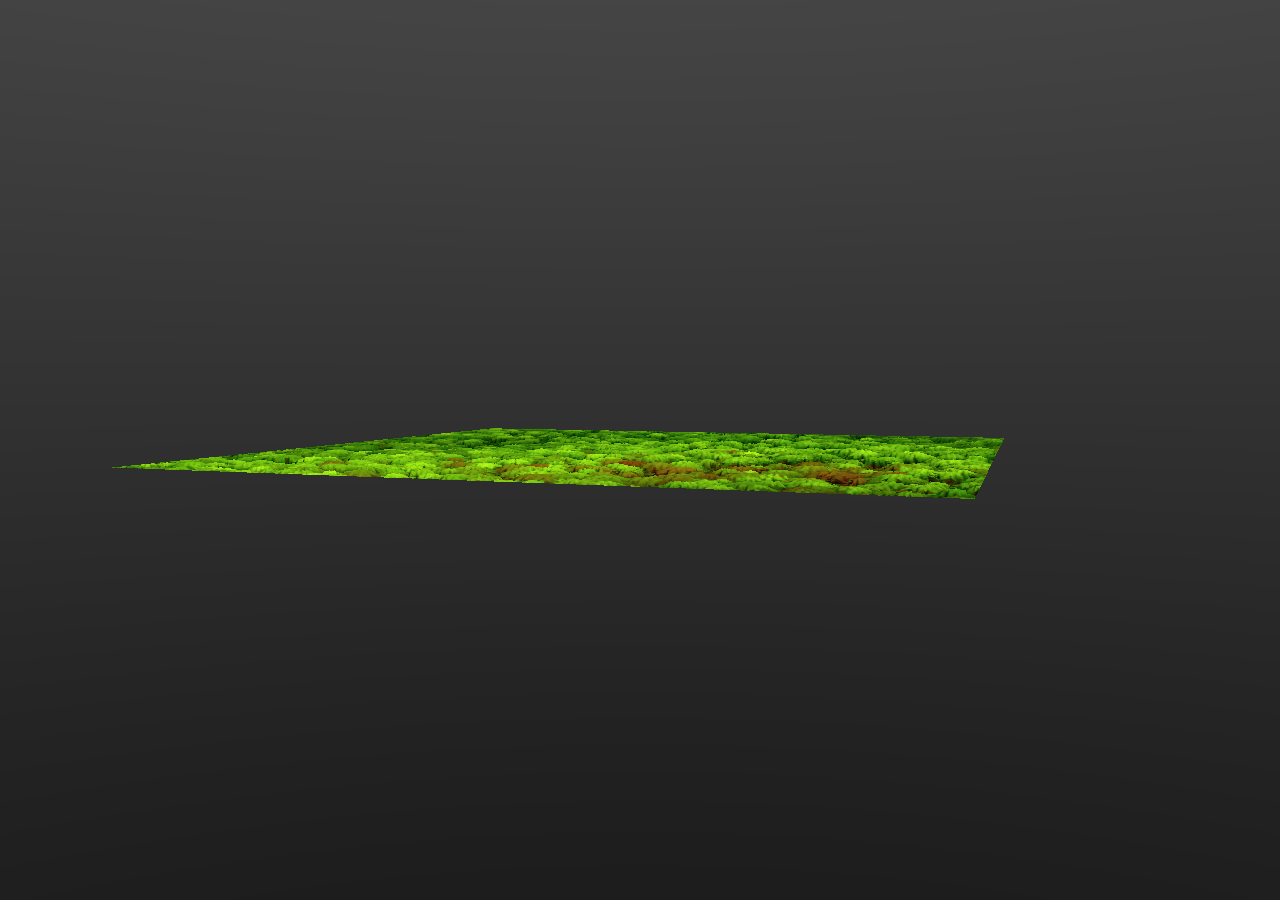
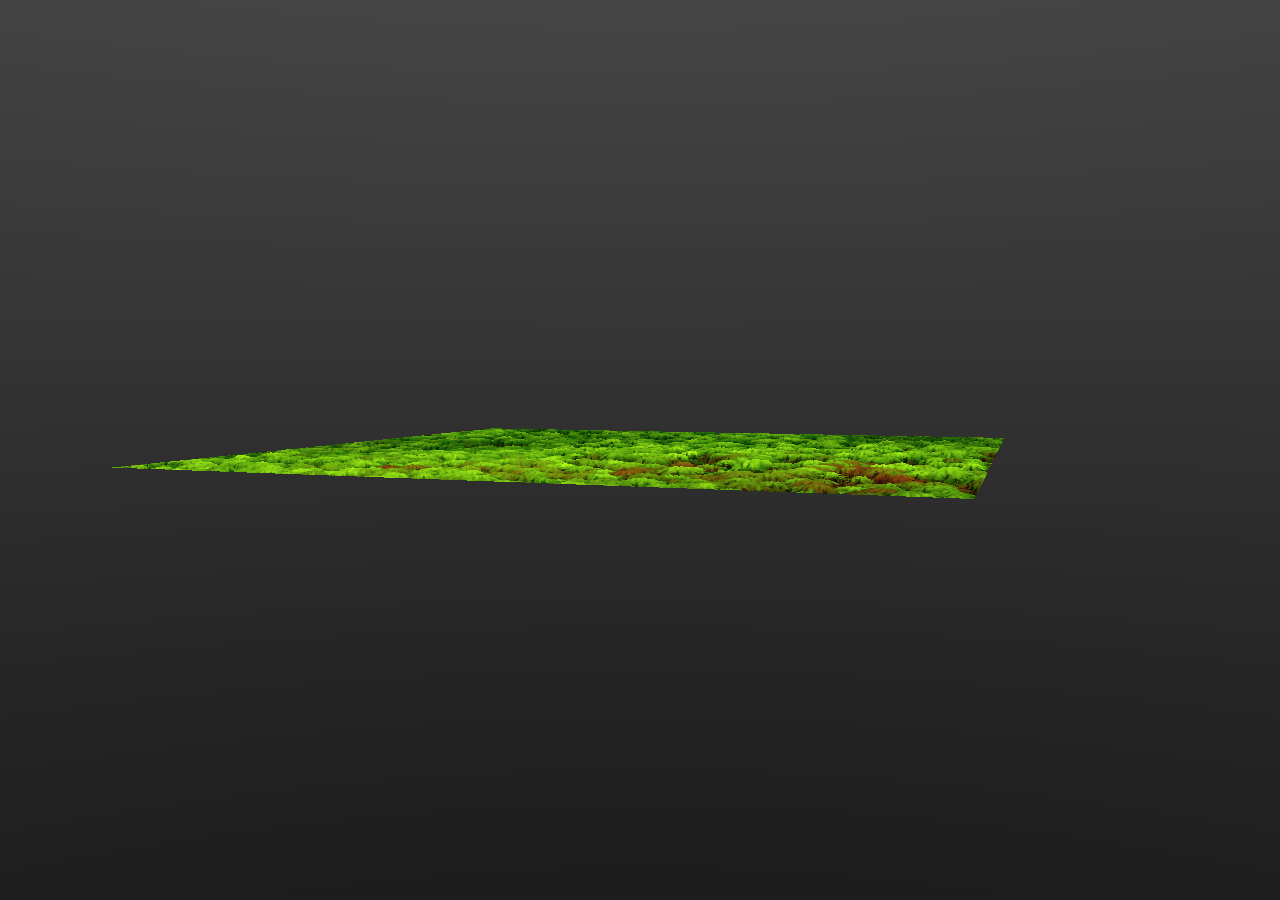
refine separated packed sphagnum cushions

Changed region(s): [[0.125, 0.4667, 0.7812, 0.56]]

diff --git a/experiments/materials/mosses/sphagnum/025-statistical-assemblage/generator.ts b/experiments/materials/mosses/sphagnum/025-statistical-assemblage/generator.ts
@@ -176,7 +176,8 @@ function periodicDelta(value: number, centre: number): number {
 }
 
 function cushionRaw(x: number, y: number, sites: CushionSite[], seed: number): number {
-  let union = 0
+  let primary = 0
+  let secondary = 0
   for (const site of sites) {
     const dx = periodicDelta(x, site.x)
     const dy = periodicDelta(y, site.y)
@@ -190,13 +191,23 @@ function cushionRaw(x: number, y: number, sites: CushionSite[], seed: number): n
     const radius = Math.hypot(localX / site.radiusX, localY / site.radiusY) / irregularBoundary
     if (radius >= 1) continue
     const inward = 1 - radius
-    const compact = inward * inward * (3 - 2 * inward)
+    // Quartic onset keeps neighbouring cushions distinct at their margins;
+    // the final factor softens the crest to avoid a pointed radial mound.
+    const compact = inward ** 4 * (5 - 4 * inward)
     const contribution = clamp01(compact * site.amplitude)
-    union = 1 - (1 - union) * (1 - contribution)
+    if (contribution > primary) {
+      secondary = primary
+      primary = contribution
+    } else if (contribution > secondary) {
+      secondary = contribution
+    }
   }
+  // Preserve one dominant cushion identity while allowing a subdued overlap
+  // shoulder where two real colonies interpenetrate.
+  const separatedUnion = primary + secondary * (1 - primary) * 0.24
   // A small shared environmental component lets the existing colour mosaic
   // anticipate cushion state without turning colour into a height lookup.
-  return clamp01(union + macroPigment(x, y, seed) * 0.055)
+  return clamp01(separatedUnion + macroPigment(x, y, seed) * 0.040)
 }
 
 function makeCushionModel(seed: number): CushionModel {
@@ -208,7 +219,7 @@ function makeCushionModel(seed: number): CushionModel {
       const index = gy * grid + gx
       const x = wrap((gx + 0.14 + unit(index, 41, seed) * 0.72) * spacing, TILE)
       const y = wrap((gy + 0.14 + unit(index, 43, seed) * 0.72) * spacing, TILE)
-      const radius = TILE * (0.135 + unit(index, 45, seed) * 0.080)
+      const radius = TILE * (0.125 + unit(index, 45, seed) * 0.065)
       const aspect = 0.68 + unit(index, 47, seed) * 0.58
       const localTone = macroPigment(x, y, seed)
       sites.push({
@@ -684,7 +695,7 @@ function makeEvents(seed: number): StructuralEvent[] {
       const cellForm = macroForm(cellX, cellY, seed)
       const cellElevation = macroElevation(cellX, cellY, seed)
       const cellCushion = cushionState(cellX, cellY, cushionModel, seed)
-      const acceptance = clamp01(0.28 + cellForm * 0.060 + cellElevation * 0.018 + cellCushion * 0.012)
+      const acceptance = clamp01(0.28 + cellForm * 0.060 + cellElevation * 0.018 + cellCushion * 0.035)
       for (let candidate = 0; candidate < CANDIDATES_PER_CELL; candidate++) {
         if (unit(cell * CANDIDATES_PER_CELL + candidate, 701, seed) > acceptance) continue
         const id = events.length
@@ -696,9 +707,9 @@ function makeEvents(seed: number): StructuralEvent[] {
         const cushionCoherence = smooth(clamp01((cushion + 0.15) / 1.35))
         const shootBaselineJitter = 0.065 * (1 - cushionCoherence * 0.38)
         const age = gaussianish(id, 731, seed)
-        const density = clamp01(0.55 - form * 0.10 + cushion * 0.060 + gaussianish(id, 741, seed) * 0.18)
+        const density = clamp01(0.55 - form * 0.10 + cushion * 0.085 + gaussianish(id, 741, seed) * 0.18)
         const openness = clamp01(
-          0.30 + form * 0.20 - cushion * 0.035 + gaussianish(id, 751, seed) * 0.21 - density * 0.05,
+          0.30 + form * 0.20 - cushion * 0.050 + gaussianish(id, 751, seed) * 0.21 - density * 0.05,
         )
         const verticality = clamp01(
           0.43 + density * 0.30 - openness * 0.26 + elevation * 0.10 + cushion * 0.050 +
@@ -718,7 +729,7 @@ function makeEvents(seed: number): StructuralEvent[] {
           size: Math.max(
             22,
             (25.0 + unit(id, 791, seed) * 23.0 + gaussianish(id, 795, seed) * 4.2 + density * 3.0) *
-              (1 - cushion * 0.022),
+              (1 - cushion * 0.030),
           ),
           openness,
           density,

diff --git a/experiments/materials/mosses/sphagnum/025-statistical-assemblage/NOTES.md b/experiments/materials/mosses/sphagnum/025-statistical-assemblage/NOTES.md
@@ -35,12 +35,12 @@ is not material-calibrated, but this experiment remains below it anyway.
 
 No source mesh bake. `author.ts` runs the deterministic TypeScript structural
 generator and writes `assets/descriptor.png` plus diagnostic captures. Seed 2507
-currently authors 7,747 structural events (6,966 capitula and 781 exposed
-fascicles), corresponding to 43,917 events/m² and a mean nominal capitulum width
+currently authors 7,664 structural events (6,890 capitula and 774 exposed
+fascicles), corresponding to 43,447 events/m² and a mean nominal capitulum width
 of 12.08 mm.
 
 The final raster has 100% causal coverage and no artificial zero-height pixels.
-Only 4,017 texels (0.096%) required leaf-contact closure, which converged in
+Only 4,640 texels (0.111%) required leaf-contact closure, which converged in
 three texel steps (about 0.62 mm) by extending the deepest adjacent real packet's
 surface id, age, pigment, and depth. This operation is bounded below a typical
 branch-leaf scale and cannot become a hidden substrate layer.
@@ -55,11 +55,11 @@ silhouettes; that is the separate prism track.
 
 ## Findings
 
-- Current depth overlap fractions are 100.0%, 99.41%, 98.10%, and 95.57% for
+- Current depth overlap fractions are 100.0%, 99.34%, 97.91%, and 95.17% for
   layers one through four. The lower cohorts therefore replace catastrophic POM
   wells with dark, low, branch-shaped biomass while retaining visible apertures.
-- Cushion state has 0.62 Pearson correlation with event baseline height and
-  0.30 with pigment. This is strong enough to form coherent microtopography but
+- Cushion state has 0.54 Pearson correlation with event baseline height and
+  0.26 with pigment. This is strong enough to form coherent microtopography but
   weak enough that red/ochre regions do not simply trace bump contours.
 - QA captures cover plane macro, sphere and cube at tileScale 1, and sphere and
   cube at tileScale 8 / reliefGain 2 / 2048 px. Raw height, albedo, normal, and
